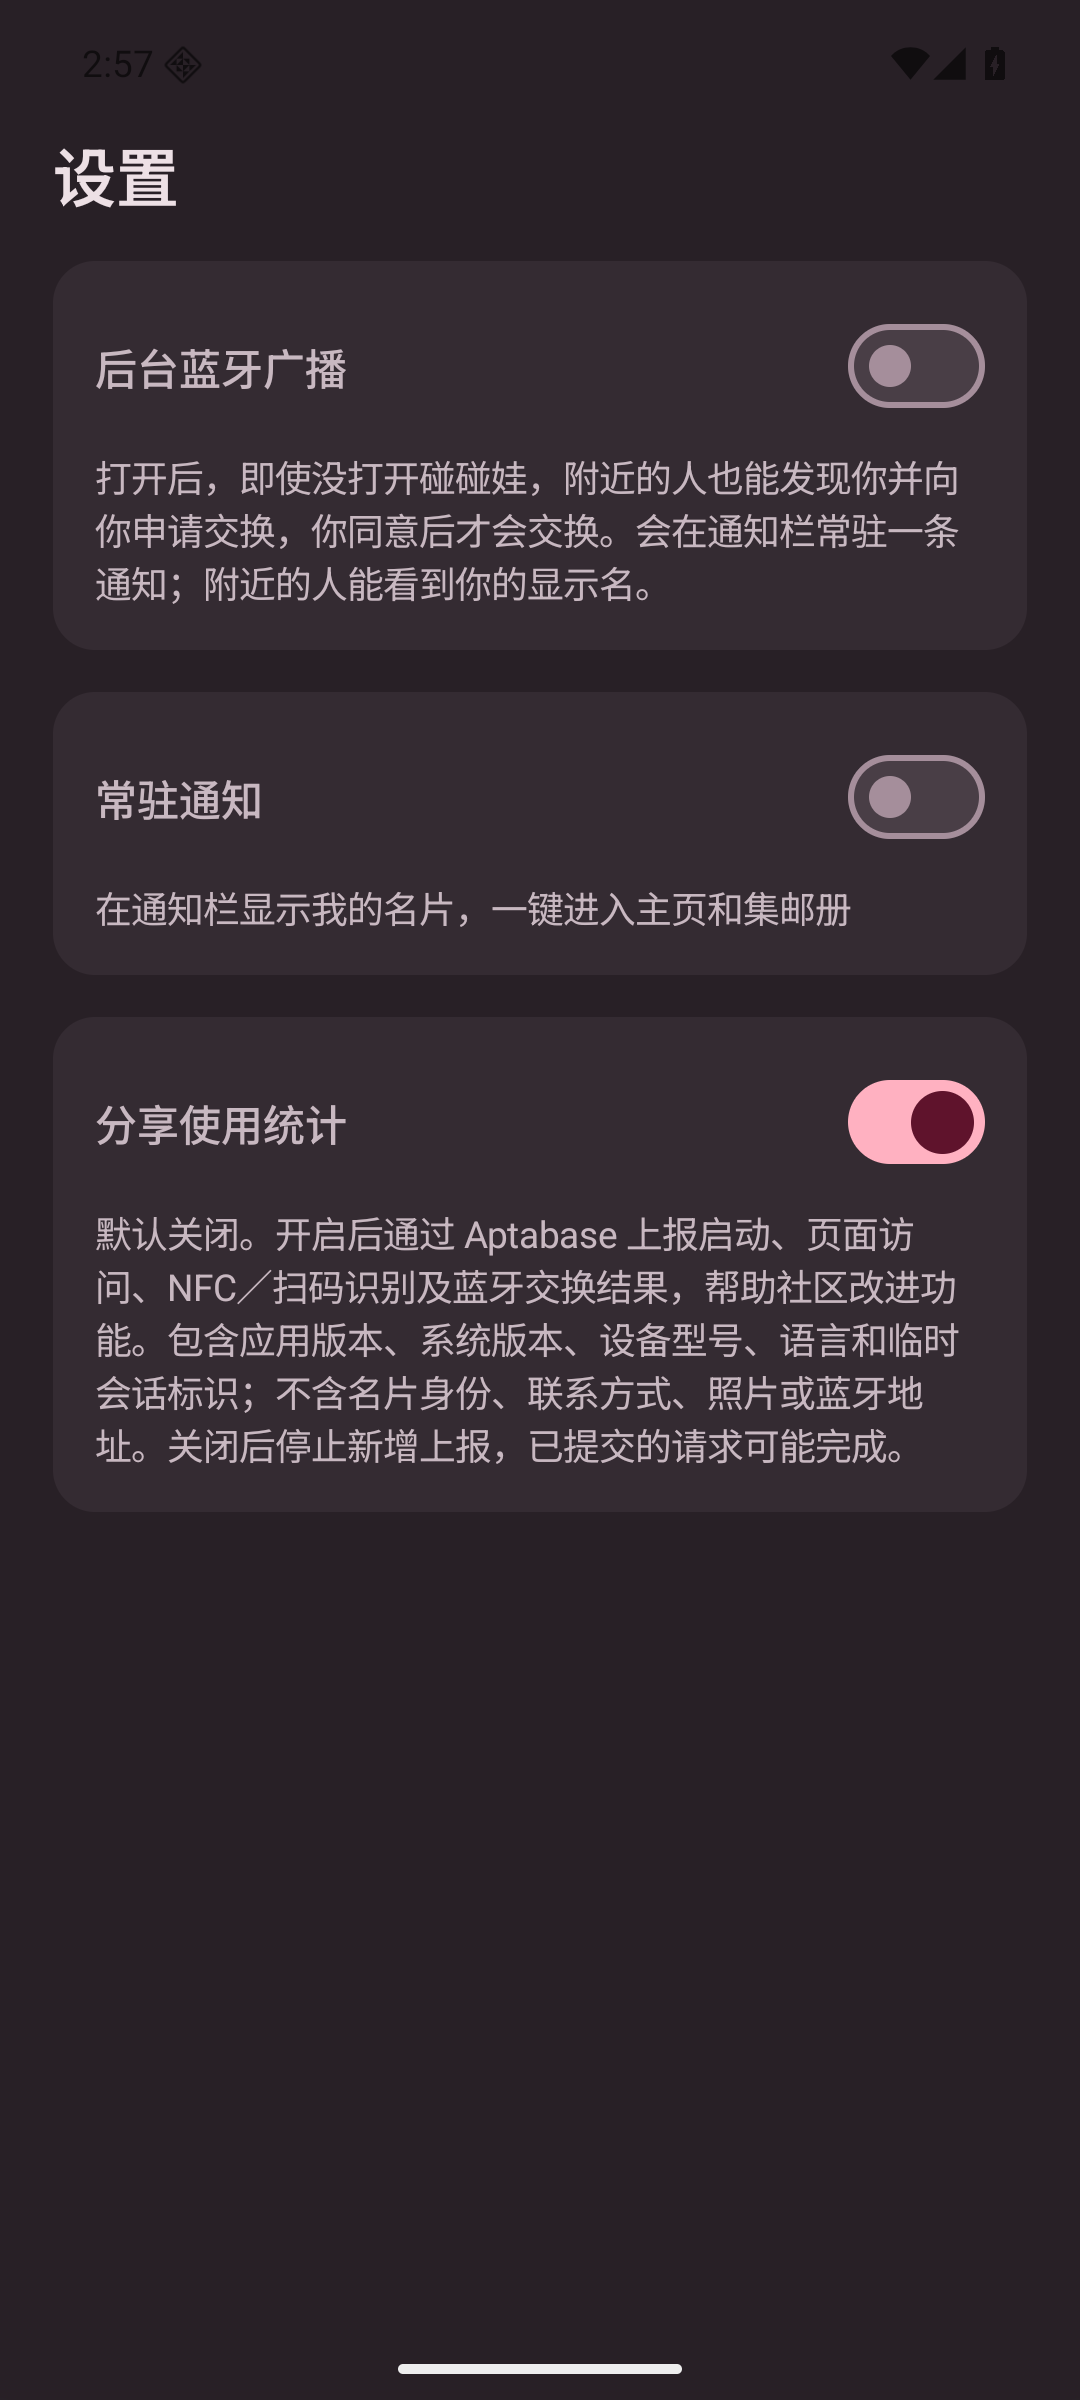
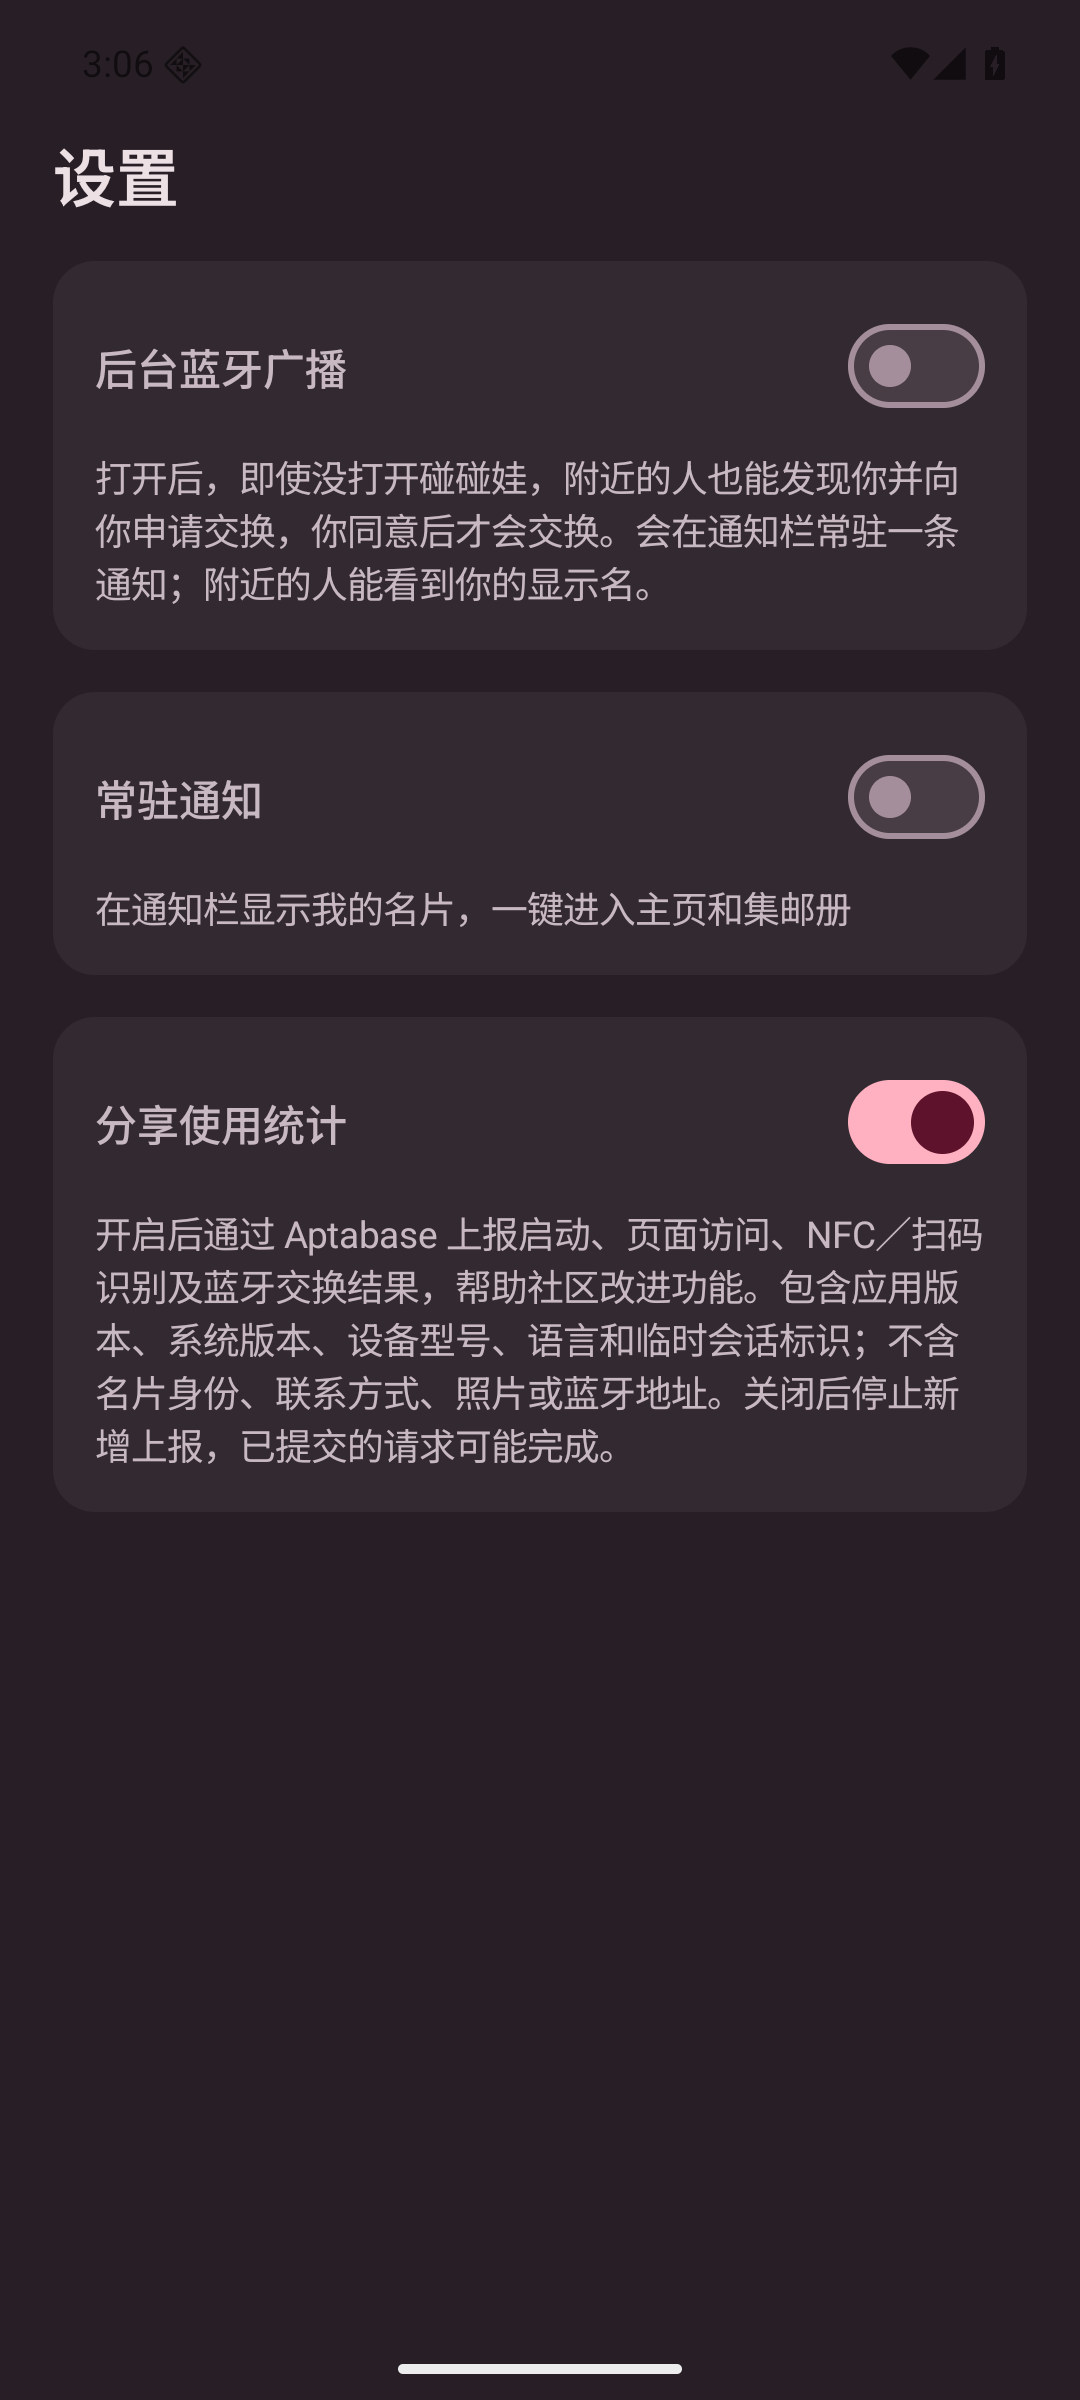
feat: 在引导最后一步默认勾选使用统计

Changed region(s): [[0.0917, 0.5, 0.9167, 0.625]]

diff --git a/app/src/main/kotlin/app/pengwa/ui/OnboardingScreen.kt b/app/src/main/kotlin/app/pengwa/ui/OnboardingScreen.kt
@@ -30,6 +30,8 @@ internal fun OnboardingScreen(
     modifier: Modifier = Modifier,
 ) {
     var error by remember { mutableStateOf<String?>(null) }
+    var shareUsage by rememberSaveable { mutableStateOf(true) }
+    var completing by remember { mutableStateOf(false) }
     val step = viewModel.onboardingStep
     val scope = rememberCoroutineScope()
     fun moveTo(next: OnboardingStep) { scope.launch { error = viewModel.moveOnboardingTo(next) } }
@@ -72,12 +74,17 @@ internal fun OnboardingScreen(
             OnboardingStep.LearnExchange -> ExchangeGuide(
                 onBack = { moveTo(OnboardingStep.PreviewCard) },
                 onFinish = { tab ->
-                    scope.launch {
-                        error = viewModel.moveOnboardingTo(OnboardingStep.Complete)
-                        if (error == null) onFinish(tab)
+                    if (!completing) scope.launch {
+                        completing = true
+                        try {
+                            error = viewModel.finishOnboarding(shareUsage)
+                            if (error == null) onFinish(tab)
+                        } finally { completing = false }
                     }
                 },
                 modifier = Modifier.weight(1f),
+                finishEnabled = !completing,
+                completionOption = { OnboardingAnalyticsOption(shareUsage, { shareUsage = it }, enabled = !completing) },
             )
             OnboardingStep.Complete -> Unit
         }
@@ -123,10 +130,16 @@ private fun ExchangeLesson.illustration(): IllustratedLesson = when (this) {
 
 /** Illustrations lead the lesson; short native captions stay scalable and accessible. */
 @Composable
-internal fun ExchangeGuide(onBack: () -> Unit, onFinish: (Int) -> Unit, modifier: Modifier = Modifier) {
+internal fun ExchangeGuide(
+    onBack: () -> Unit,
+    onFinish: (Int) -> Unit,
+    modifier: Modifier = Modifier,
+    finishEnabled: Boolean = true,
+    completionOption: @Composable () -> Unit = {},
+) {
     var lesson by rememberSaveable { mutableStateOf(ExchangeLesson.Qr) }
     val illustration = lesson.illustration()
-    BackHandler(onBack = onBack)
+    BackHandler { if (finishEnabled) onBack() }
     Column(
         modifier.fillMaxSize().verticalScroll(rememberScrollState()).padding(20.dp),
         verticalArrangement = Arrangement.spacedBy(16.dp),
@@ -137,6 +150,7 @@ internal fun ExchangeGuide(onBack: () -> Unit, onFinish: (Int) -> Unit, modifier
             ExchangeLesson.entries.forEach { item ->
                 FilterChip(
                     selected = lesson == item,
+                    enabled = finishEnabled,
                     onClick = { lesson = item },
                     label = { Text(item.label) },
                     leadingIcon = { PengWaIcon(item.icon, tint = if (lesson == item) MaterialTheme.colorScheme.primary else MaterialTheme.colorScheme.onSurfaceVariant) },
@@ -161,11 +175,12 @@ internal fun ExchangeGuide(onBack: () -> Unit, onFinish: (Int) -> Unit, modifier
             style = MaterialTheme.typography.bodySmall,
             color = MaterialTheme.colorScheme.onSurfaceVariant,
         )
-        Button(onClick = { onFinish(if (lesson == ExchangeLesson.Nearby) MainActivity.TAB_NEARBY else MainActivity.TAB_ME) }, modifier = Modifier.fillMaxWidth().heightIn(min = 52.dp)) {
+        completionOption()
+        Button(enabled = finishEnabled, onClick = { onFinish(if (lesson == ExchangeLesson.Nearby) MainActivity.TAB_NEARBY else MainActivity.TAB_ME) }, modifier = Modifier.fillMaxWidth().heightIn(min = 52.dp)) {
             Text(when (lesson) { ExchangeLesson.Qr -> "去主页，试试扫码"; ExchangeLesson.Nearby -> "去附近，找娃友"; ExchangeLesson.Nfc -> "去主页，试试碰一碰" })
         }
         Text("在主页设置里，随时重看“扩列图解”。", style = MaterialTheme.typography.bodySmall, color = MaterialTheme.colorScheme.onSurfaceVariant)
-        TextButton(onClick = onBack, modifier = Modifier.fillMaxWidth()) { Text("返回") }
+        TextButton(enabled = finishEnabled, onClick = onBack, modifier = Modifier.fillMaxWidth()) { Text("返回") }
     }
 }
 

diff --git a/app/src/main/kotlin/app/pengwa/ui/AnalyticsToggle.kt b/app/src/main/kotlin/app/pengwa/ui/AnalyticsToggle.kt
@@ -1,11 +1,27 @@
 package app.pengwa.ui
 
 import androidx.compose.foundation.layout.Column
+import androidx.compose.foundation.layout.Row
+import androidx.compose.foundation.rememberScrollState
+import androidx.compose.foundation.verticalScroll
+import androidx.compose.material3.AlertDialog
+import androidx.compose.material3.Checkbox
+import androidx.compose.material3.TextButton
+import androidx.compose.runtime.mutableStateOf
+import androidx.compose.runtime.saveable.rememberSaveable
+import androidx.compose.ui.Modifier
+import androidx.compose.ui.Alignment
+import androidx.compose.ui.semantics.Role
 import androidx.compose.material3.MaterialTheme
 import androidx.compose.material3.Text
 import androidx.compose.runtime.Composable
 import androidx.compose.runtime.remember
 import androidx.compose.runtime.getValue
+import androidx.compose.runtime.setValue
+import androidx.compose.foundation.layout.fillMaxWidth
+import androidx.compose.foundation.layout.heightIn
+import androidx.compose.foundation.selection.toggleable
+import androidx.compose.ui.unit.dp
 import androidx.compose.ui.platform.LocalContext
 import androidx.compose.ui.res.stringResource
 import androidx.lifecycle.compose.collectAsStateWithLifecycle
@@ -33,4 +49,27 @@ internal fun AnalyticsSettingContent(checked: Boolean, configured: Boolean, onCh
         )
         if (!configured) Text(stringResource(R.string.analytics_unconfigured), style = MaterialTheme.typography.bodySmall)
     }
+}
+
+/** The draft choice belongs only to first-run onboarding; reopening the guide does not change it. */
+@Composable
+internal fun OnboardingAnalyticsOption(checked: Boolean, onCheckedChange: (Boolean) -> Unit, enabled: Boolean = true) {
+    var showExplanation by rememberSaveable { mutableStateOf(false) }
+    Row(Modifier.fillMaxWidth(), verticalAlignment = Alignment.CenterVertically) {
+        Row(
+            modifier = Modifier.weight(1f).heightIn(min = 48.dp)
+                .toggleable(value = checked, enabled = enabled, role = Role.Checkbox, onValueChange = onCheckedChange),
+            verticalAlignment = Alignment.CenterVertically,
+        ) {
+            Checkbox(checked = checked, enabled = enabled, onCheckedChange = null)
+            Text(stringResource(R.string.analytics_onboarding_choice), modifier = Modifier.weight(1f), style = MaterialTheme.typography.bodyMedium)
+        }
+        TextButton(onClick = { showExplanation = true }) { Text(stringResource(R.string.analytics_explanation)) }
+    }
+    if (showExplanation) AlertDialog(
+        onDismissRequest = { showExplanation = false },
+        title = { Text(stringResource(R.string.analytics_title)) },
+        text = { Text(stringResource(R.string.analytics_description), Modifier.verticalScroll(rememberScrollState())) },
+        confirmButton = { TextButton(onClick = { showExplanation = false }) { Text(stringResource(R.string.analytics_explanation_close)) } },
+    )
 }

diff --git a/app/src/main/kotlin/app/pengwa/analytics/AppAnalytics.kt b/app/src/main/kotlin/app/pengwa/analytics/AppAnalytics.kt
@@ -3,6 +3,7 @@ package app.pengwa.analytics
 import android.content.Context
 import app.pengwa.BuildConfig
 import app.pengwa.pengWa
+import app.pengwa.identity.OnboardingStep
 import app.pengwa.settings.BooleanSetting
 import com.aptabase.Aptabase
 import com.aptabase.InitOptions
@@ -20,7 +21,7 @@ class AppAnalytics(context: Context) {
     @Suppress("unused")
     private val stopObserving = setting.observe(this.context) { _enabled.value = it }
     private var initialized = false
-    private val analytics = Analytics(configured, { setting.get(this.context) }) { event ->
+    private val analytics = Analytics(configured, { setting.get(this.context) && this.context.pengWa.identityRepository.onboardingStep() == OnboardingStep.Complete }) { event ->
         if (!initialized) {
             Aptabase.instance.initialize(this.context, config.appKey, InitOptions(
                 host = config.host.trimEnd('/').takeIf { it.isNotEmpty() },
@@ -30,6 +31,8 @@ class AppAnalytics(context: Context) {
         }
         Aptabase.instance.trackEvent(event.eventName, event.properties)
     }
+
+    suspend fun saveEnabled(value: Boolean) { setting.set(context, value) }
 
     fun setEnabled(value: Boolean) {
         context.pengWa.persistSetting { setting.set(context, value) }

diff --git a/app/src/main/kotlin/app/pengwa/ui/IdentityViewModel.kt b/app/src/main/kotlin/app/pengwa/ui/IdentityViewModel.kt
@@ -37,6 +37,16 @@ class IdentityViewModel(application: Application) : AndroidViewModel(application
         null
     }.getOrElse { "进度保存失败，请重试" } }.await()
 
+    /** Persist the final choice before publishing completion, so a failed write keeps the guide open. */
+    suspend fun finishOnboarding(shareUsage: Boolean): String? = viewModelScope.async {
+        runCatching {
+            getApplication<Application>().pengWa.analytics.saveEnabled(shareUsage)
+            repository.saveOnboardingStep(OnboardingStep.Complete)
+            onboardingStep = OnboardingStep.Complete
+            null
+        }.getOrElse { "选择保存失败，请重试" }
+    }.await()
+
     suspend fun saveOnboardingDraft(): String? = saveDraft(onboarding = true)
 
     fun beginEdit() { draft = identity }

diff --git a/docs/screenshots/analytics/README.md b/docs/screenshots/analytics/README.md
@@ -7,7 +7,7 @@
 - 窄屏：720 × 1280、360 dpi（320dp 宽），字体 1.5 倍。
 - 图片由运行中的 Debug 应用通过 `adb exec-out screencap -p` 获取，不是 Layoutlib 图片。
 - 变更前使用主分支 a9ac122 构建的 APK；变更后使用当前 APK。设置内容均来自 `SettingsContent`。
-- 测试入口使用合成状态，未读取真实联系人，没有真实姓名、ID 或照片；没有配置真实 App Key，截图流程不发送统计。
+- 测试入口使用合成状态，未读取真实联系人，没有真实姓名、ID 或照片；这些截图使用未配置 App Key 的 APK，不发送统计；另行执行的带配置 Debug 验证见下文。
 
 ## 前后截图（可复制到 PR 描述）
 
@@ -22,7 +22,7 @@
 
 | 关键状态 | 浅色 | 深色 |
 |---|---|---|
-| 已配置，默认关闭 | ![统计关闭](after-off-light.png) | ![统计关闭](after-off-dark.png) |
+| 已配置，关闭 | ![统计关闭](after-off-light.png) | ![统计关闭](after-off-dark.png) |
 | 已配置，用户开启 | ![统计开启](after-on-light.png) | ![统计开启](after-on-dark.png) |
 
 320dp 窄屏 / 1.5 倍字体：
@@ -67,6 +67,32 @@ adb -s emulator-5564 shell settings put system font_scale 1.0
 - Debug 单元测试、Debug 构建、Debug lint、Release 构建（含 R8）通过。
 - 新增 5 项统计单元测试通过：配置校验、同意前与关闭后不发送、不开启时不补报、SDK 异常隔离、属性白名单。
 - 运行中设置内容的浅色 / 深色与窄屏大字体状态已截图；开关使用既有 `SettingsRow` 的整行 Switch 语义。
-- 真实主页设置弹层的打开和展开已截图；已配置开关的开/关状态使用预览注入。开关持久化与网络上报尚未端到端验证。
-- 真实 App Key 尚未提供，Aptabase 收件、目标网络连通性、真实 NFC / 扫码 / BLE 双机交换埋点尚未实测。
+- 真实主页设置弹层的打开和展开已截图；已配置开关的开/关状态使用预览注入。设置内修改的持久化与网络上报尚未端到端验证；引导最后一步的勾选/取消勾选完成后重启均已验证 DataStore 保存结果，见下方记录。
+- App Key 已配置到仓库变量，单次 Debug `integration_test` 接收请求返回 HTTP 200；控制台展示、不同目标网络和真实 NFC / 扫码 / BLE 双机交换埋点尚未核查。
 - SDK 不提供可靠离线队列或取消已提交请求的接口，关闭后已提交请求仍可能完成，已在界面与文档说明。
+
+
+## 引导最后一步：默认勾选的独立选项
+
+此组变更前为 PR 初始提交 `16986a3`，变更后为本 PR 的后续提交；来自同一模拟器实际 MainActivity 的最后一步，滚动到完成按钮，使用固定测试卡片 `TelemetryTest`。
+
+| 页面 / 状态 | 变更前 | 变更后 |
+|---|---|---|
+| 最后一步，浅色 | ![原最后一步](onboarding/before-checked-light.png) | ![新增默认勾选项](onboarding/after-checked-light.png) |
+| 最后一步，深色 | ![原最后一步](onboarding/before-checked-dark.png) | ![新增默认勾选项](onboarding/after-checked-dark.png) |
+
+| 关键状态 | 浅色 | 深色 |
+|---|---|---|
+| 用户取消勾选 | ![取消勾选](onboarding/after-unchecked-light.png) | ![取消勾选](onboarding/after-unchecked-dark.png) |
+| 统计说明 | ![说明弹窗](onboarding/after-explanation-light.png) | ![说明弹窗](onboarding/after-explanation-dark.png) |
+
+复现：全新安装，创建测试卡片并完成预览，进入第 3 / 3 步。滚动到完成按钮上方，确认复选项默认勾选、点击整行可取消、点击「说明」可查看字段；点击完成后重启，检查设置中的统计选择。可用测试数据迁移预置 `identity` 的 `onboarding_step=2` 直接进入最后一步。
+
+已在未配置 App Key 的构建中分别完成取消勾选和默认勾选流程，重启后读取 `files/datastore/settings.preferences_pb`，确认 `usage_analytics` 分别为 false / true；测试不会向真实服务发数据。另用已配置 App Key 的 Debug 包重复执行这两条持久化流程；控制台事件展示仍待核查。
+
+
+引导最后一步在 320dp / 字体 1.5 倍下的状态（选项文字自然换行，仍为独立一行控件；说明内容可滚动）：
+
+| 引导选择 | 说明弹窗 |
+|---|---|
+| ![窄屏引导选择](onboarding/after-narrow-large-font.png) | ![窄屏说明弹窗](onboarding/after-explanation-narrow-large-font.png) |

diff --git a/README.md b/README.md
@@ -88,6 +88,6 @@
 
 ## 可选使用统计
 
-支持 Aptabase，默认关闭；配置服务后，用户可在设置中自愿开启「分享使用统计」。
+支持 Aptabase，首次引导最后一步提供默认勾选的「分享使用统计」独立选项，完成引导时保存选择；可取消勾选，也可之后在设置中关闭。既有用户的开关保持原值。
 采集页面访问、NFC／扫码识别和蓝牙交换结果，不上传名片身份、联系方式、照片或蓝牙地址。
 未配置服务的构建不会上报。配置方法、完整字段和统计口径见 [使用统计](docs/analytics.md)。
